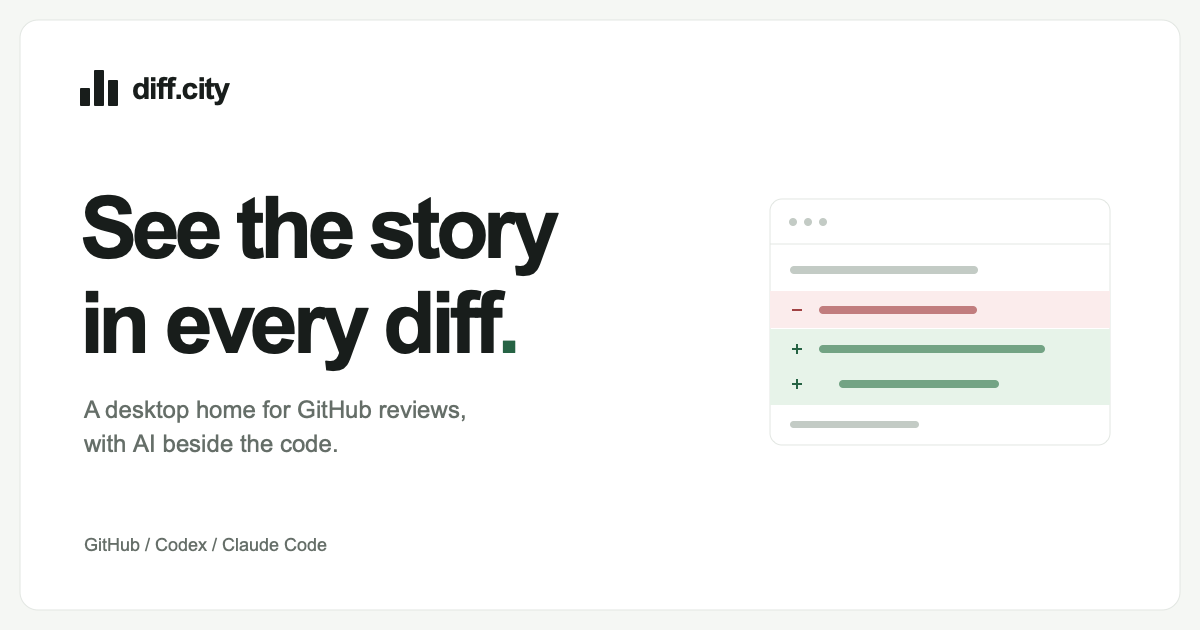
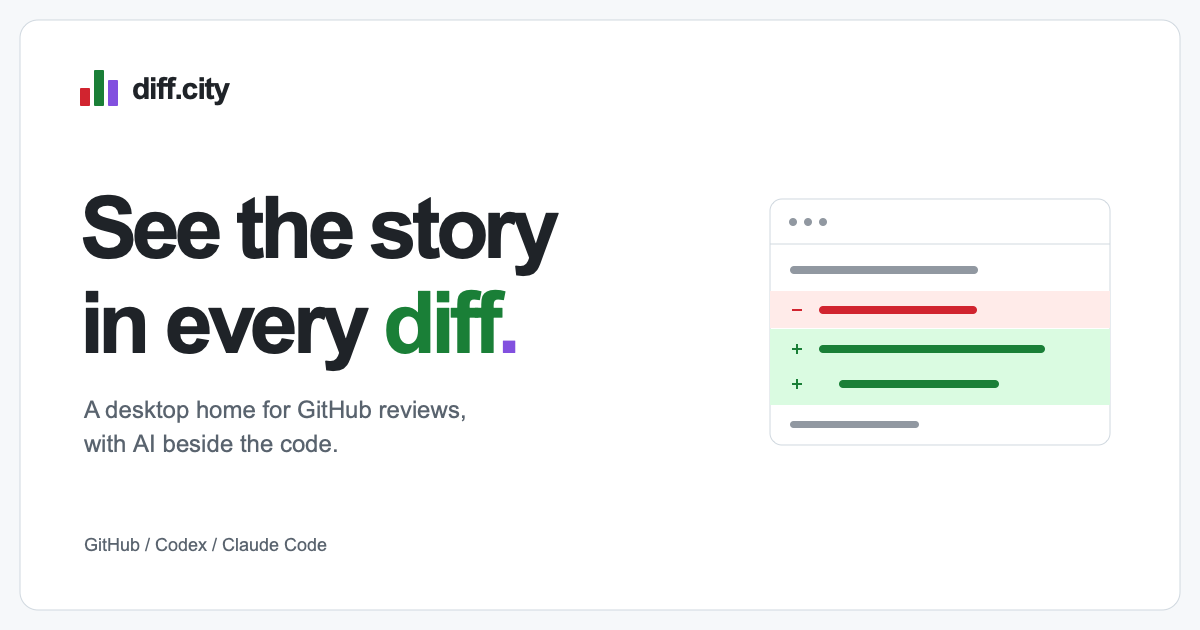
feat(brand): align Diff City with GitHub pull request colors
- Share Primer light/dark semantic accents between the desktop app and Astro site, with documented provenance and the upstream MIT license.
- Apply green actions, red/green diff highlights, and a red/green/purple skyline across the landing page, favicon, and social preview while retaining real full-window app screenshots.
- Update desktop PR states, diff surfaces, focus rings, and rail branding using the same palette and contrast-safe button states.
- Include shared palette changes in Pages deployment triggers and align screenshot link labels with their visible text.
- Validate Astro and desktop production builds, ARM bundle signatures, six responsive/theme website accessibility scans, and both desktop review themes in WebKit.

diff --git a/apps/site/src/styles/global.css b/apps/site/src/styles/global.css
@@ -1,35 +1,36 @@
 @import "tailwindcss";
+@import "../../../../packages/brand/palette.css";
 @theme {
   --font-sans: "Inter Variable", Inter, system-ui, sans-serif;
 }
 :root {
   color-scheme: light;
   --paper: #fff;
-  --ink: #181d1b;
-  --muted: #656e68;
-  --line: #e3e7e3;
-  --wash: #f5f7f4;
-  --green: #266344;
-  --green-light: #e7f3e9;
-  --red: #a14243;
-  --red-light: #fbecec;
-  --purple: #7358a3;
-  --code: #f9faf8;
-  --shadow: 0 24px 80px -40px #203b2440;
+  --ink: #1f2328;
+  --muted: #59636e;
+  --line: #d1d9e0;
+  --wash: #f6f8fa;
+  --green: var(--pr-green);
+  --green-light: var(--pr-green-soft);
+  --red: var(--pr-red);
+  --red-light: var(--pr-red-soft);
+  --purple: var(--pr-purple);
+  --code: #f6f8fa;
+  --shadow: 0 24px 80px -40px #1f232830;
 }
 :root[data-theme="dark"] {
   color-scheme: dark;
-  --paper: #101411;
-  --ink: #edf1ec;
-  --muted: #a0aaa0;
-  --line: #2d352e;
-  --wash: #181e19;
-  --green: #a3dab2;
-  --green-light: #1c3426;
-  --red: #f0a7a8;
-  --red-light: #382123;
-  --purple: #c4b0ef;
-  --code: #141a15;
+  --paper: #0d1117;
+  --ink: #f0f6fc;
+  --muted: #9198a1;
+  --line: #3d444d;
+  --wash: #151b23;
+  --green: var(--pr-green);
+  --green-light: var(--pr-green-soft);
+  --red: var(--pr-red);
+  --red-light: var(--pr-red-soft);
+  --purple: var(--pr-purple);
+  --code: #151b23;
   --shadow: 0 24px 80px -40px #000;
 }
 @layer base {
@@ -61,7 +62,7 @@
     -webkit-tap-highlight-color: transparent;
   }
   :focus-visible {
-    outline: 2px solid var(--green);
+    outline: 2px solid var(--pr-blue);
     outline-offset: 5px;
     border-radius: 3px;
   }
@@ -125,7 +126,7 @@
     white-space: nowrap;
   }
   .wordmark-dot {
-    color: var(--muted);
+    color: var(--purple);
   }
   .wordmark.large {
     font-size: 29px;
@@ -174,13 +175,17 @@
     transform: translateY(-1px);
   }
   .button-primary {
-    color: var(--paper);
-    background: var(--ink);
-    border-color: var(--ink);
+    color: var(--pr-on-action);
+    background: var(--pr-action);
+    border-color: var(--pr-action);
   }
   .button-primary:hover {
-    background: var(--green);
-    border-color: var(--green);
+    background: var(--pr-action-hover);
+    border-color: var(--pr-action-hover);
+  }
+  .button-primary:active {
+    background: var(--pr-action-active);
+    border-color: var(--pr-action-active);
   }
   .button-small {
     padding: 10px 14px;
@@ -236,21 +241,40 @@
     margin: 25px auto 25px;
   }
   .hero-diff {
-    position: relative;
-  }
-  .hero-diff::after {
-    content: "";
-    position: absolute;
-    bottom: 1px;
-    left: 0;
-    right: 0;
-    height: 6px;
-    background: var(--green-light);
-    z-index: -1;
-    border-radius: 2px;
+    color: var(--green);
   }
   .hero-period {
+    color: var(--purple);
+  }
+  .hero-change {
+    display: flex;
+    justify-content: center;
+    flex-wrap: wrap;
+    gap: 8px;
+    margin: 0 auto 12px;
+    font-size: 15px;
+    line-height: 1.5;
+    letter-spacing: -0.02em;
+  }
+  .hero-change span {
+    display: inline-flex;
+    align-items: center;
+    gap: 8px;
+    padding: 5px 11px;
+    border-radius: 5px;
+  }
+  .hero-change .change-before {
+    color: var(--red);
+    background: var(--red-light);
+  }
+  .hero-change .change-after {
     color: var(--green);
+    background: var(--green-light);
+  }
+  .hero-change b {
+    font-family: monospace;
+    font-size: 18px;
+    font-weight: 500;
   }
   .hero-description {
     color: var(--muted);
@@ -270,7 +294,7 @@
     font-weight: 500;
   }
   .text-link:hover {
-    color: var(--green);
+    color: var(--pr-blue);
   }
   .hero-note {
     color: var(--muted);
@@ -300,9 +324,9 @@
     border-radius: 6px;
   }
   .preview-tabs button[aria-selected="true"] {
-    background: var(--wash);
-    border-color: var(--line);
-    color: var(--ink);
+    background: var(--green-light);
+    border-color: var(--pr-green);
+    color: var(--green);
   }
   .preview-tabs button:hover {
     color: var(--ink);
@@ -458,6 +482,12 @@
   }
   .feature-top svg {
     color: var(--green);
+  }
+  .feature:nth-child(2) .feature-top svg {
+    color: var(--purple);
+  }
+  .feature:nth-child(3) .feature-top svg {
+    color: var(--pr-blue);
   }
   .feature h3 {
     font-size: 21px;
@@ -832,6 +862,12 @@
   }
   .feature-top {
     margin-bottom: 14px;
+  }
+  .feature:nth-child(2) .feature-top svg {
+    color: var(--purple);
+  }
+  .feature:nth-child(3) .feature-top svg {
+    color: var(--pr-blue);
   }
   .feature h3 {
     max-width: none;

diff --git a/apps/desktop/src/styles.css b/apps/desktop/src/styles.css
@@ -1,4 +1,5 @@
 @import "tailwindcss";
+@import "../../../packages/brand/palette.css";
 
 @theme inline {
   --color-canvas: var(--bg);
@@ -30,25 +31,25 @@
     --control-border: #858585;
     --text: #171717;
     --muted: #5c5c5c;
-    --focus: #171717;
+    --focus: var(--pr-blue);
     --selected: #e5e5e5;
-    --green: #166534;
-    --green-soft: #f0fdf4;
-    --action: #166534;
-    --action-hover: #14532d;
-    --on-action: #ffffff;
-    --amber: #854d0e;
-    --amber-soft: #fffbeb;
-    --amber-border: #d4a64a;
-    --red: #b91c1c;
-    --red-soft: #fef2f2;
-    --purple: #6d28d9;
-    --purple-soft: #f3e8ff;
-    --blue: #1d4ed8;
-    --blue-soft: #eff6ff;
+    --green: var(--pr-green);
+    --green-soft: var(--pr-green-soft);
+    --action: var(--pr-action);
+    --action-hover: var(--pr-action-hover);
+    --on-action: var(--pr-on-action);
+    --amber: var(--pr-amber);
+    --amber-soft: var(--pr-amber-soft);
+    --amber-border: var(--pr-amber-border);
+    --red: var(--pr-red);
+    --red-soft: var(--pr-red-soft);
+    --purple: var(--pr-purple);
+    --purple-soft: var(--pr-purple-soft);
+    --blue: var(--pr-blue);
+    --blue-soft: var(--pr-blue-soft);
     --code: #ffffff;
-    --added: #edf9f0;
-    --removed: #fff0f0;
+    --added: var(--pr-green-soft);
+    --removed: var(--pr-red-soft);
     --code-selected: #d9e9fa;
     --syntax-keyword: #b42330;
     --syntax-string: #176630;
@@ -66,25 +67,25 @@
     --control-border: #737373;
     --text: #fafafa;
     --muted: #a3a3a3;
-    --focus: #fafafa;
+    --focus: var(--pr-blue);
     --selected: #303030;
-    --green: #86efac;
-    --green-soft: #102b18;
-    --action: #86efac;
-    --action-hover: #bbf7d0;
-    --on-action: #052e16;
-    --amber: #fcd34d;
-    --amber-soft: #2b210c;
-    --amber-border: #8b6b22;
-    --red: #fca5a5;
-    --red-soft: #350f0f;
-    --purple: #c4b5fd;
-    --purple-soft: #281447;
-    --blue: #93c5fd;
-    --blue-soft: #102541;
+    --green: var(--pr-green);
+    --green-soft: var(--pr-green-soft);
+    --action: var(--pr-action);
+    --action-hover: var(--pr-action-hover);
+    --on-action: var(--pr-on-action);
+    --amber: var(--pr-amber);
+    --amber-soft: var(--pr-amber-soft);
+    --amber-border: var(--pr-amber-border);
+    --red: var(--pr-red);
+    --red-soft: var(--pr-red-soft);
+    --purple: var(--pr-purple);
+    --purple-soft: var(--pr-purple-soft);
+    --blue: var(--pr-blue);
+    --blue-soft: var(--pr-blue-soft);
     --code: #0a0a0a;
-    --added: #102b18;
-    --removed: #350f0f;
+    --added: var(--pr-green-soft);
+    --removed: var(--pr-red-soft);
     --code-selected: #173c59;
     --syntax-keyword: #ff9caa;
     --syntax-string: #9fe2ad;
@@ -220,15 +221,17 @@
     height: 22px;
   }
   .brand-mark i {
-    background: currentColor;
+    background: var(--red);
     width: 6px;
     height: 15px;
     border-radius: 1px;
   }
   .brand-mark i:nth-child(2) {
+    background: var(--green);
     height: 23px;
   }
   .brand-mark i:nth-child(3) {
+    background: var(--purple);
     height: 19px;
   }
   .account-list {

diff --git a/packages/brand/palette.css b/packages/brand/palette.css
@@ -1,0 +1,33 @@
+/* GitHub Primer Primitives 11.10.0. See README.md and PRIMER-LICENSE. */
+:root {
+  --pr-green: #1a7f37;
+  --pr-green-soft: #dafbe1;
+  --pr-red: #d1242f;
+  --pr-red-soft: #ffebe9;
+  --pr-purple: #8250df;
+  --pr-purple-soft: #fbefff;
+  --pr-blue: #0969da;
+  --pr-blue-soft: #ddf4ff;
+  --pr-amber: #9a6700;
+  --pr-amber-soft: #fff8c5;
+  --pr-amber-border: #d4a72c;
+  --pr-action: #1f883d;
+  --pr-action-hover: #1c8139;
+  --pr-action-active: #197935;
+  --pr-on-action: #ffffff;
+}
+:root[data-theme="dark"] {
+  --pr-green: #3fb950;
+  --pr-green-soft: #2ea04326;
+  --pr-red: #f85149;
+  --pr-red-soft: #f851491a;
+  --pr-purple: #ab7df8;
+  --pr-purple-soft: #ab7df826;
+  --pr-blue: #4493f8;
+  --pr-blue-soft: #388bfd1a;
+  --pr-amber: #d29922;
+  --pr-amber-soft: #bb800926;
+  --pr-amber-border: #9e6a03;
+  --pr-action: #238636;
+  /* Keep the darker light-theme hover/active tokens for 4.5:1 white labels. */
+}

diff --git a/README.md b/README.md
@@ -74,7 +74,7 @@ As you scroll, code notes replace the section summary in the left margin, connec
 
 ## Appearance and accessibility
 
-Use the appearance menu in the toolbar to choose **Light**, **Dark**, or **System**. The interface uses neutral black, white, and gray surfaces; PR status, diff additions/deletions, primary actions, and attention warnings retain semantic color. Appearance saves immediately without reconnecting accounts.
+Use the appearance menu in the toolbar to choose **Light**, **Dark**, or **System**. The interface uses neutral black, white, and gray surfaces with GitHub Primer accents: green for open PRs and additions, red for deletions and closed PRs, purple for merges, blue for focus and information, and amber for attention. The app and website share the [brand palette](packages/brand/README.md), including light/dark theme values and accessible primary buttons. Appearance saves immediately without reconnecting accounts.
 
 Tailwind CSS supplies the styling foundation, and React Aria supplies buttons, tabs, menus, and dialog behavior. Keyboard users can skip to the review, switch tabs with arrow keys, navigate the guide outline, and dismiss dialogs with Escape. Outline jumps focus the destination heading; ordinary scrolling preserves keyboard focus. Explanations stack above code in narrow windows. **Read full context** opens longer explanations and review questions in the document. Focus returns to dialog openers. Code and discussions flow in one review scrollbar. Large reviews load code near the viewport; **Render all code** keeps every expanded line available to assistive technology. Offscreen blocks also have named keyboard load controls. Native Select All from code temporarily renders the full document, while ordinary text selections remain mounted as you scroll. Use **Collapse changes**, individual diff controls, or inline discussion controls to compact a section. **Show 25 lines above/below** reveals unchanged context from the captured revision; repeat to see more, or use **Collapse context**. Extra context is read-only and stops at adjacent changes. Added and removed lines also have textual labels. See [accessibility checks and remaining work](docs/accessibility.md).
 

diff --git a/packages/brand/README.md b/packages/brand/README.md
@@ -1,0 +1,18 @@
+# Diff City color palette
+
+The desktop app and [diff.city](https://diff.city) share the semantic accents in `palette.css`. Both keep neutral black, white, and gray surfaces so the code remains the focus.
+
+Colors come from [GitHub Primer Primitives 11.10.0](https://github.com/primer/primitives), using the light and dark theme `fgColor`, `bgColor`, and primary-button tokens. The upstream MIT license is included in `PRIMER-LICENSE`.
+
+| Color  | Use                                                     |
+| ------ | ------------------------------------------------------- |
+| Green  | Open PRs, additions, approvals, primary actions         |
+| Red    | Deletions, closed PRs, errors, changes requested        |
+| Purple | Merged PRs, guide accents, collapsed code context       |
+| Blue   | Links, keyboard focus, selections, informational states |
+| Amber  | Attention, warnings, pending checks                     |
+| Gray   | Drafts and inactive states                              |
+
+The skyline uses red, green, and purple bars. Color supplements icons and labels; it never supplies the only indication of state. Primary buttons use white text on a solid green, distinct from green text on a muted green surface. Dark-mode buttons retain Primer's darker light-theme hover/active colors to keep small white labels above a 4.5:1 contrast ratio.
+
+The website's static favicon and social-card SVG use these same colors explicitly, because they render outside the page's CSS. `social.png` is rendered from `apps/site/public/social.svg` at 1200 × 630. App screenshots are real captures and should not be recolored or cropped to simulate this palette.

diff --git a/apps/site/README.md b/apps/site/README.md
@@ -35,7 +35,8 @@ In repository **Settings → Pages**, the build source must be **GitHub Actions*
 
 - `src/pages/index.astro`: page content, metadata, theme toggle.
 - `src/components/ReviewPreview.astro`: keyboard-accessible screenshot tabs, captions, and source PR links.
-- `src/styles/global.css`: Tailwind entry point, theme tokens, responsive styles.
+- `src/styles/global.css`: Tailwind entry point, neutral surfaces, responsive styles.
+- `../../packages/brand/palette.css`: shared GitHub PR colors for both themes; see the [palette reference](../../packages/brand/README.md).
 - `src/config.ts`: repository and validated optional download URL.
 - `public/`: domain, favicon, social image, robots file, and sitemap.
 
